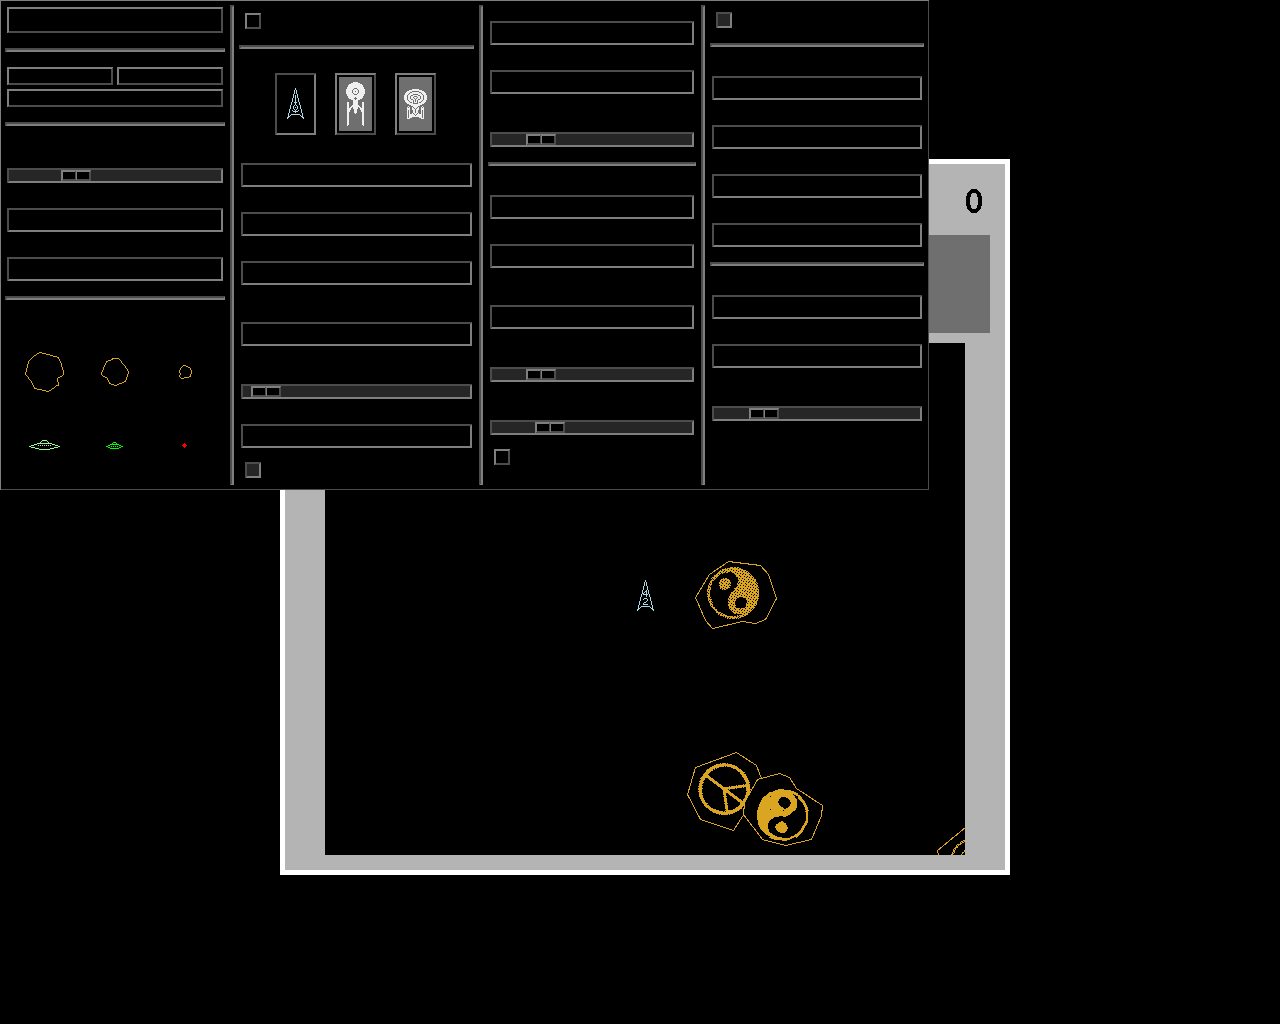
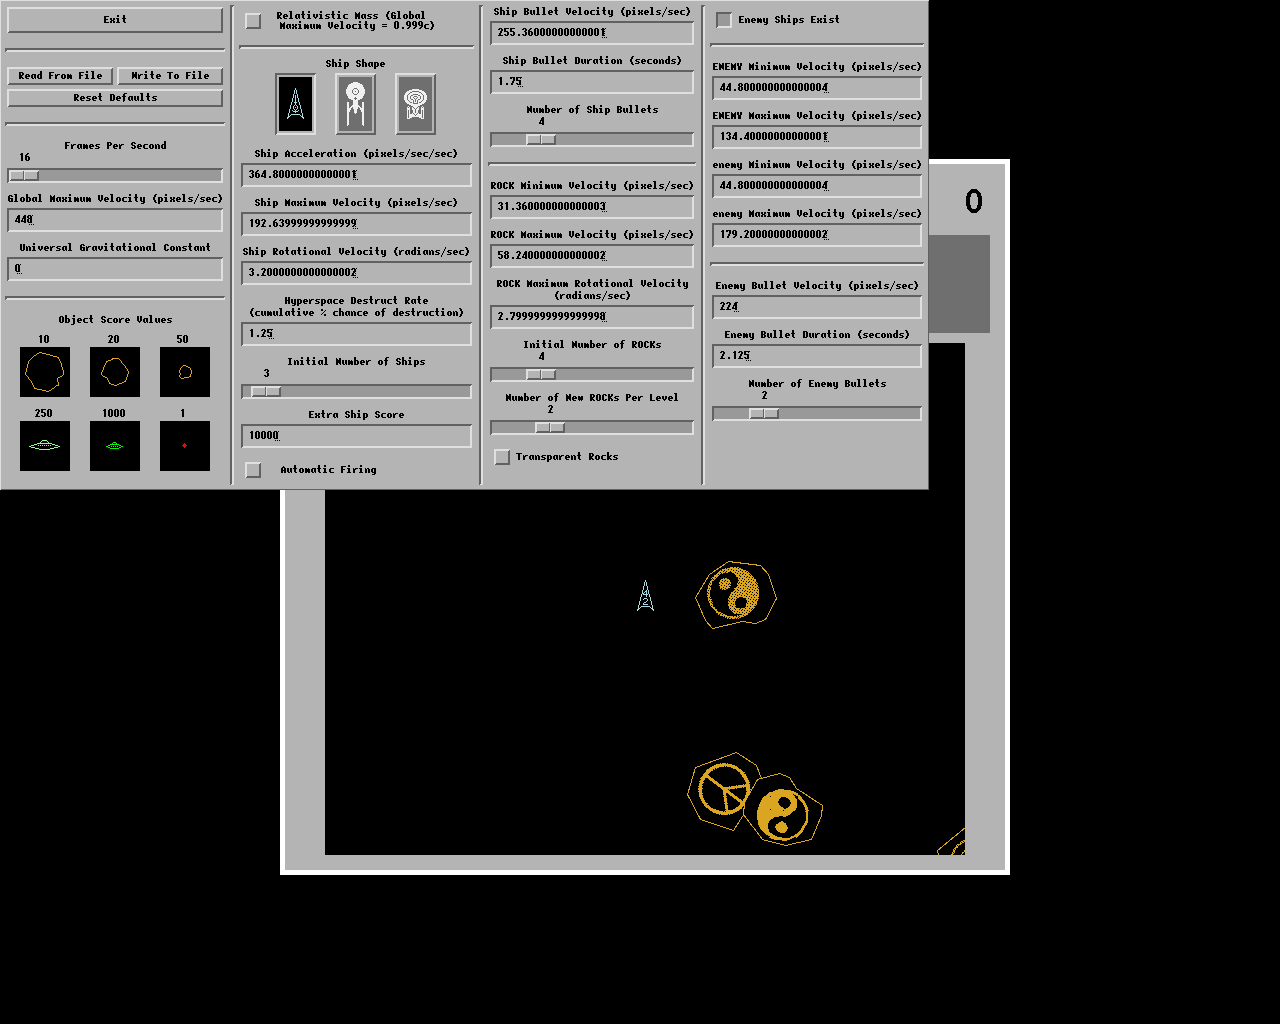
fix(X11): Motif Options dialog rendered all black — dialog background was 0 (black) instead of the original windowBg gray-180 (46260/65535): black panels, black-on-black text, dark bevels (127/76/38). Allocate the identical gray through the backend allocateColor seam (single point: the ctor local fe

Changed region(s): [[0.0, 0.0, 0.75, 0.5]]

diff --git a/gamePlay/options/options.H b/gamePlay/options/options.H
@@ -551,9 +551,10 @@ inline Options::Options(int argc, char** argv): exitFlag(on),
                                                   valueChanged(off),
                                                   lastScoreFactor(1),
                                                   IOState(noIOInProgress)
- {// Task 47: the Stage alias members are gone — the D9 island reads the
-  // backend accessors / the nativeHandle seam directly. Same values, same
-  // requests (windowBg.pixel was never allocated: 0 since task 12).
+  {// Task 47: the Stage alias members are gone — the D9 island reads the
+   // backend accessors / the nativeHandle seam directly. The panel background
+   // is the original windowBg gray-180 (46260/65535), allocated here through
+   // the backend seam (it was 0, which blacked the panels and hid the text).
   X11Backend& backend=static_cast<X11Backend&>(stage->engine);
   Display* const display=(Display*)stage->engine.nativeHandle().display;
   XtToolkitInitialize();
@@ -561,7 +562,7 @@ inline Options::Options(int argc, char** argv): exitFlag(on),
   XtDisplayInitialize(appContext,display,
                       "XAsteroids",argv[0],NULL,0,&argc,argv);
 
-  Pixel background=0,
+  Pixel background=backend.allocateColor(46260.0f/65535.0f,46260.0f/65535.0f,46260.0f/65535.0f),
         foreground=BlackPixel(display,DefaultScreen(display));
   XmString string;
 
@@ -2579,6 +2580,11 @@ inline void Options::RealizeWindow()
   X11Backend& backend=static_cast<X11Backend&>(stage->engine);
   Display* const display=(Display*)stage->engine.nativeHandle().display;
   Window const window=(Window)stage->engine.nativeHandle().window;
+  // Map + clear + flush the shell before the modal pump so the first frame
+  // is a mapped, background-cleared window (no first-paint garbage / race).
+  XMapWindow(display,XtWindow(shell));
+  XClearWindow(display,XtWindow(shell));
+  XSync(display,False);
   do
    {XtAppNextEvent(appContext,&event);
     if (event.xany.window==window)
